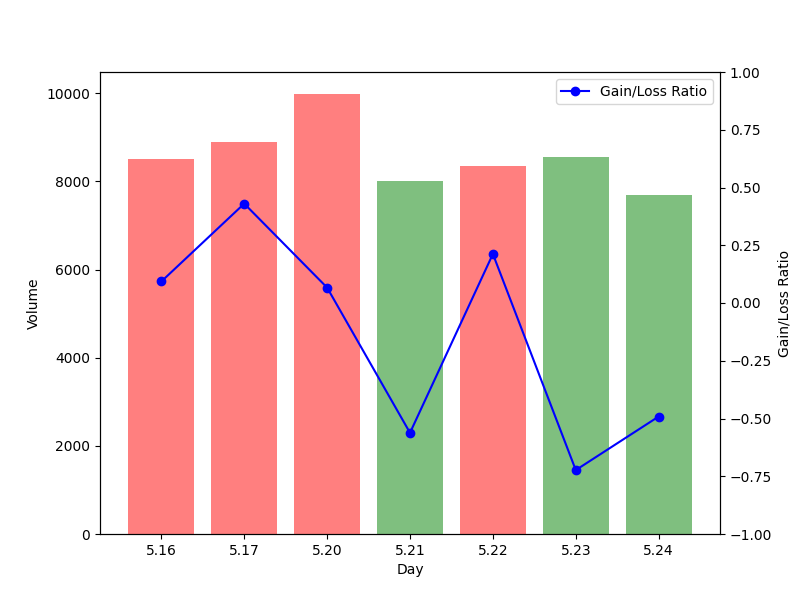
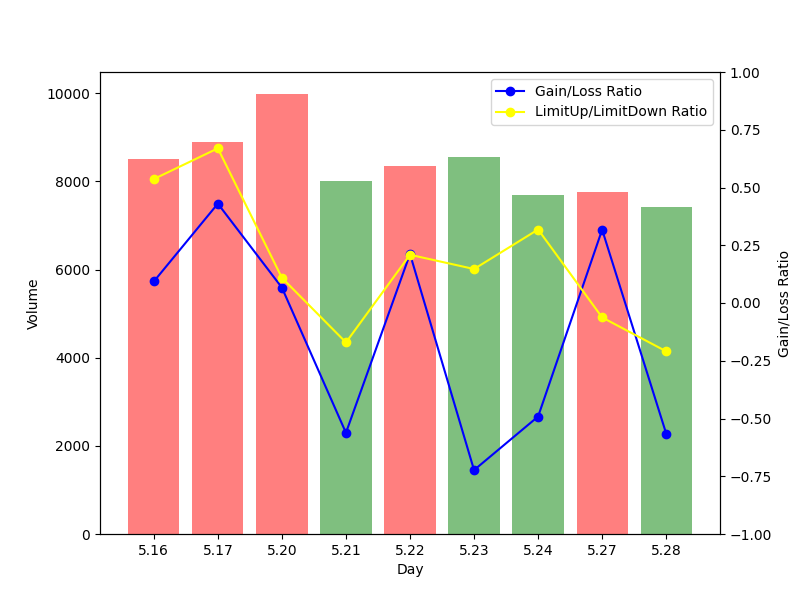
add limit_up/limit_down

diff --git a/app.py b/app.py
@@ -14,12 +14,14 @@ import signal
 # 　　截至今天收盘，此前周线5连阳的沪指也终于收阴，进入弱势调整格局；沪指4月底站上3100点迄今，还不满一个月，今天也首次跌破了。
 def job():
 
-    up_count = [2823, 2823, 2755, 1148, 3108, 735, 1313]
-    down_count = [2342, 1125, 2411, 4093, 2020, 4578, 3851]
-    volumes = [8504, 8901, 9982, 8019., 8343, 8559, 7692]
-    num_days = ['5.16', '5.17', '5.20', '5.21', '5.22', '5.23', '5.24']
+    up_count = [2823, 2823, 2755, 1148, 3108, 735, 1313, 3397, 1149]
+    down_count = [2342, 1125, 2411, 4093, 2020, 4578, 3851, 1760, 4140]
+    limit_up = [63, 96, 61, 34, 55, 39, 58, 45, 34]
+    limit_down = [19, 19, 49, 48, 36, 29, 30, 51, 52]
+    volumes = [8504, 8901, 9982, 8019., 8343, 8559, 7692, 7748, 7417]
+    num_days = ['5.16', '5.17', '5.20', '5.21', '5.22', '5.23', '5.24', '5.27', '5.28']
 
-    image_path = plot_histogram(up_count, down_count, volumes, num_days)
+    image_path = plot_histogram(up_count, down_count, limit_up, limit_down, volumes, num_days)
     time.sleep(1)
 
     image_url = upload_image_to_imgbb(image_path)
@@ -42,15 +44,15 @@ def job():
 
 沪指失守3100点，市场全天冲高回落。截至收盘，沪指跌{shanghai_drop}%，深成指跌{shenzhen_drop}%，创业板指跌{chuangye_drop}%。
 
-板块涨幅居前：**<font color="#dd0000">{leading_sectors}</font>**
+**<font color="#dd0000">板块涨幅居前：{leading_sectors}</font>**
 
-板块跌幅居前：**<font color="#2F4F4F">{declining_sectors}</font>**
+**<font color="#2F4F4F">板块跌幅居前：{declining_sectors}</font>**
 
 全市场超过{total_decliners}只个股下跌，个股跌多涨少。
 
 沪深两市成交额为{trading_volume}，较上个交易日缩量{volume_change}。
 
-**<font color="#FFA500">{additional_info}</font>**
+**<font color="#FFA500">点评：{additional_info}</font>**
 
 [涨跌停历史数据](https://q.stock.sohu.com/cn/zdt.shtml)
 

diff --git a/app/stock_plt.py b/app/stock_plt.py
@@ -2,11 +2,11 @@ import matplotlib.pyplot as plt
 import numpy as np
 
 
-def plot_histogram(up_count, down_count, volumes, num_days):
+def plot_histogram(up_count, down_count, limit_up, limit_down, volumes, num_days):
 
     # 计算每日涨跌比
-    # changes = [(up - down) / (up + down)
-    #            for up, down in zip(up_count, down_count)]
+    changes_limit = [(up - down) / (up + down)
+               for up, down in zip(limit_up, limit_down)]
 
     # 计算涨跌比
     change_ratio = [up / down for up, down in zip(up_count, down_count)]
@@ -28,6 +28,7 @@ def plot_histogram(up_count, down_count, volumes, num_days):
     weighted_indicator = [(up * up_volume_coef) - (down * down_volume_coef)
                           for up, down in zip(up_count, down_count)]
 
+    print("涨跌板比率:", changes_limit)
     print("涨跌比率:", change_ratio)
     print("涨跌百分比:", change_percent)
     print("加权指标:", weighted_indicator)
@@ -45,13 +46,14 @@ def plot_histogram(up_count, down_count, volumes, num_days):
 
     # 绘制每日涨跌比的折线图
     ax2.plot(num_days, change_percent, marker='o', linestyle='-', color='blue')
+    ax2.plot(num_days, changes_limit, marker='o', linestyle='-', color='yellow')
     ax2.set_ylabel('Gain/Loss Ratio')
 
     # 调整第二个纵轴的范围
     ax2.set_ylim([-1, 1])  # 根据实际情况调整范围
 
     # 添加图例
-    ax2.legend(['Gain/Loss Ratio'])
+    ax2.legend(['Gain/Loss Ratio', 'LimitUp/LimitDown'])
 
     # 显示图形
     image_path = 'stock-chart.png'
